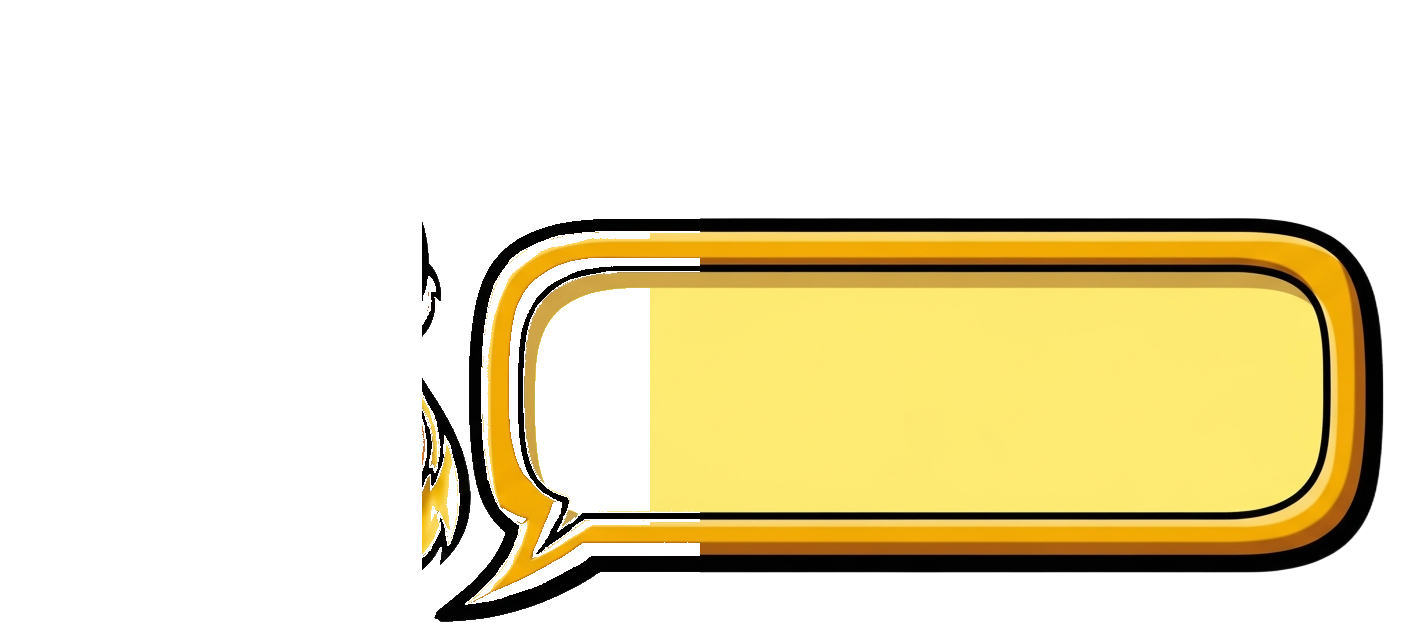
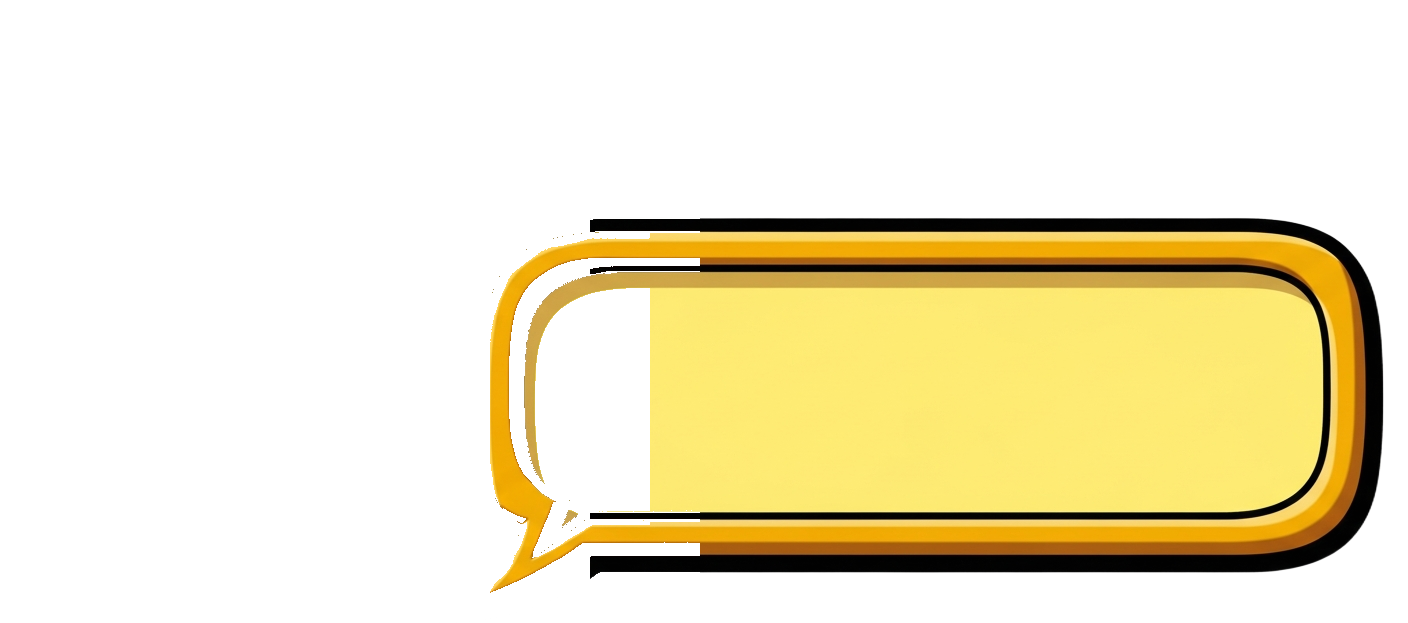
Adjust text placement within speech bubbles and remove stray elements
Update text rendering positions in mainGame.py for better alignment within the popup's cream zone and refine the cleanup of Game/Images/TalkingNoBear.png by ensuring all extraneous pixels are removed.

Replit-Commit-Author: Agent
Replit-Commit-Session-Id: c7b7eeb9-c1de-43e3-8e58-ffdee0e9d70b
Replit-Commit-Checkpoint-Type: full_checkpoint
Replit-Commit-Event-Id: 97831d4c-a136-4607-aeb4-6e8a171288dd
Replit-Helium-Checkpoint-Created: true

Changed region(s): [[0.2812, 0.3355, 0.4375, 1.0]]

diff --git a/Game/mainGame.py b/Game/mainGame.py
@@ -2462,11 +2462,11 @@ class Bear:
 
             self.textTimer += 1
             text1 = _FONT_POPUP.render(self.totalText1, False, (0, 0, 0))
-            self.screen.blit(text1, (420, 70))
+            self.screen.blit(text1, (430, 130))
             text2 = _FONT_POPUP.render(self.totalText2, False, (0, 0, 0))
-            self.screen.blit(text2, (420, 110))
+            self.screen.blit(text2, (430, 155))
             text3 = _FONT_POPUP.render(self.totalText3, False, (0, 0, 0))
-            self.screen.blit(text3, (420, 150))
+            self.screen.blit(text3, (430, 180))
             self.xText += 5
 
             if self.textTimer % 3 < 2:
